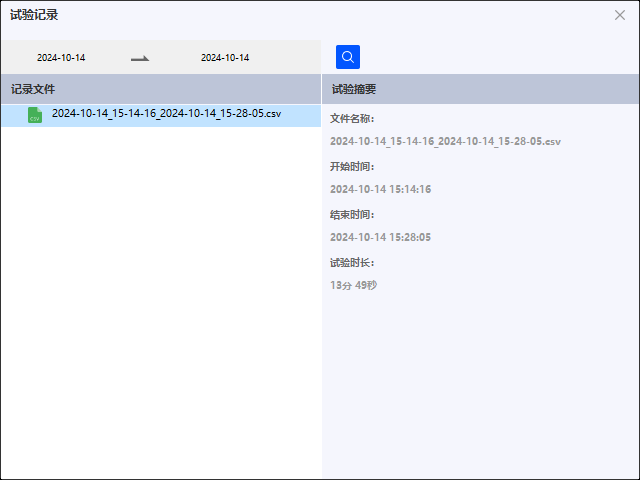
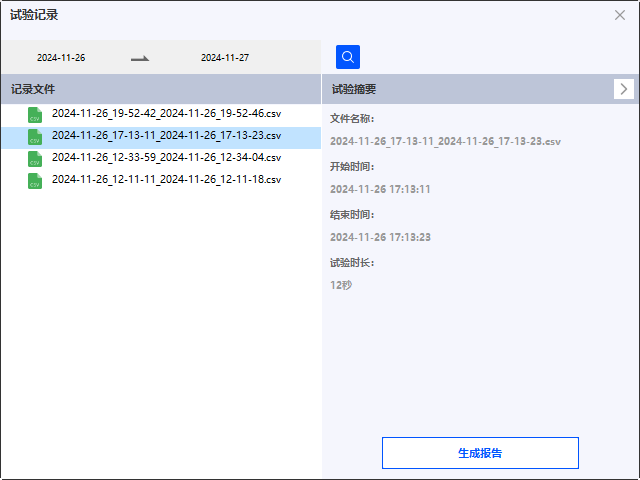
docs: README.MD help etc

diff --git a/package/README.install.help.zh.md b/package/README.install.help.zh.md
@@ -2,7 +2,7 @@
 
 ## 1. 安装包
 
-anxi-1.0.0-win32.exe 是 anxi 软件的安装包，双击启动安装程序，按照提示完成安装。
+anxi-x.x.x-win32.exe 是 anxi 软件的安装包，双击启动安装程序，按照提示完成安装。
 
 安装过程中，选择创建桌面快捷方式，安装完成后，桌面会出现 anxi 快捷方式。
 
@@ -23,11 +23,23 @@ anxi 软件的使用方法。
 ![首页截图](./anxi_home.png)
 ![工作页截图](./anxi_work_3th.png)
 
+### 4.1.1. 首页软件配置
+
+![首页配置](./anxi_home_settings.png)
+
+1. 首页三方软件配置，首页按钮名称和三方软件入口路径。
+
 ### 4.2. 正确配置2000C串口和静载机串口
 
 在 anxi 软件中，点击“设计管理”菜单，选择“设备设置”，配置2000C串口和静载机串口。
 
+- 静载机1.0
+
 ![设备设置](./anxi_com_settings.png)
+
+- 静载机2.0
+
+![设备设置2](./anxi_com_settings_2.png)
 
 ### 4.2.1 正确配置2000C串口参数，其他参数保持默认，主要更改串口号，可依据实际情况更改。
 
@@ -81,9 +93,9 @@ anxi 软件的使用方法。
 
 | 设备准备 | 说明 | 其他 |
 | --- | --- | --- |
-| 静载机上升 | 静载机上升，上升到设定的载荷位置。 | |
-| 静载机下降 | 静载机下降，下降到设定的载荷位置。 | |
-| 静载机停止 | 静载机停止，停止后，静载机保持在当前位置。保持当前载荷 | |
+| 静载机上升 | 静载机上升，上升距离无限制。用于离试件较远距离作业 | |
+| 静载机下降 | 静载机下降，下降距离无限制。 用于离试件较远距离作业 | |
+| 静载机停止 | 静载机停止，停止后，静载机保持在当前位置。 | |
 
 试验执行 - 试验开始，试验暂停，试验继续，试验停止。
 
@@ -106,8 +118,8 @@ anxi 软件的使用方法。
 
 | 试验终止条件 | 说明 | 其他 |
 | --- | --- | --- |
-| 最大循环次数 | 达到最大循环次数后，试验停止 | |
-| 频率动态波动范围 | 频率动态波动范围，达到设定范围后，试验停止 | |
+| 最大循环次数 | 达到最大循环次数后，试验停止 | 试验间断勾选后，次数是统计的激振次数总和，不包括暂停 |
+| 频率动态波动范围 | 频率动态波动范围，达到设定范围后，试验停止 | 数据列表第一条的频率为比对参数 |
 
 ### 4.6. 试验数据
 
@@ -132,11 +144,16 @@ anxi 软件的使用方法。
 | 指数取样 | 指数取样，数据取样方式，指数增长， 0.1s 1s 10s 100s ... |
 | 线性取样 | 线性取样，根据采样频率，数据取样方式，线性增长， 2s 4s 6s ... |
 
-数据保存 - 试验因用户单击·停止试验·按钮终止或触发终止条件，数据自动保存在当前目录下expdata文件夹。
+数据保存 - 试验因用户单击·停止试验·按钮终止或触发终止条件，数据自动保存在系统C:\Users\{用户名}\AppData\Roaming\anxi\expdata文件夹。
 
 提示: 菜单 设计存储->试验数据。
 
 ![试验数据记录](./anxi_record.png)
+
+1. 试验数据记录，显示试验数据csv文件记录列表。
+2. 试验摘要，显示左侧选中csv文件的试验数据文件摘要信息。
+3. 搜索框按日期条件搜索数据记录文件。
+4. 生成报告，生成选中csv文件的试验数据报告word文档。打开报告文件夹。
 
 保载参数- 位移控，力控。
 

diff --git a/README.md b/README.md
@@ -56,6 +56,10 @@ $ cmake --build out\package --config Release --target package
 
 open explorer and go to `anxi\out\package` folder, you will see `anxi-x.x.x-win32.exe` file.
 
-## install
+## use
 
- [how to install](package/README.install.help.en.md)
+[anxi software usage](./package/README.install.help.en.md)
+
+## license
+
+[MIT](./package/LICENSE)
